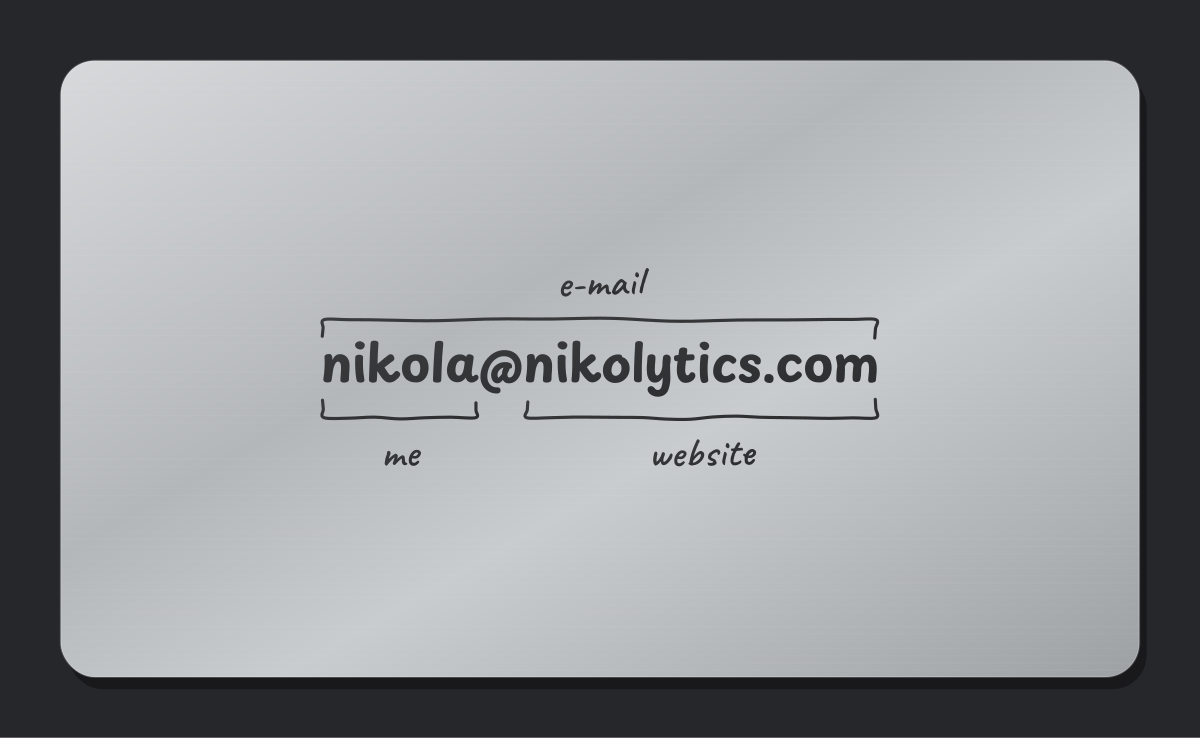
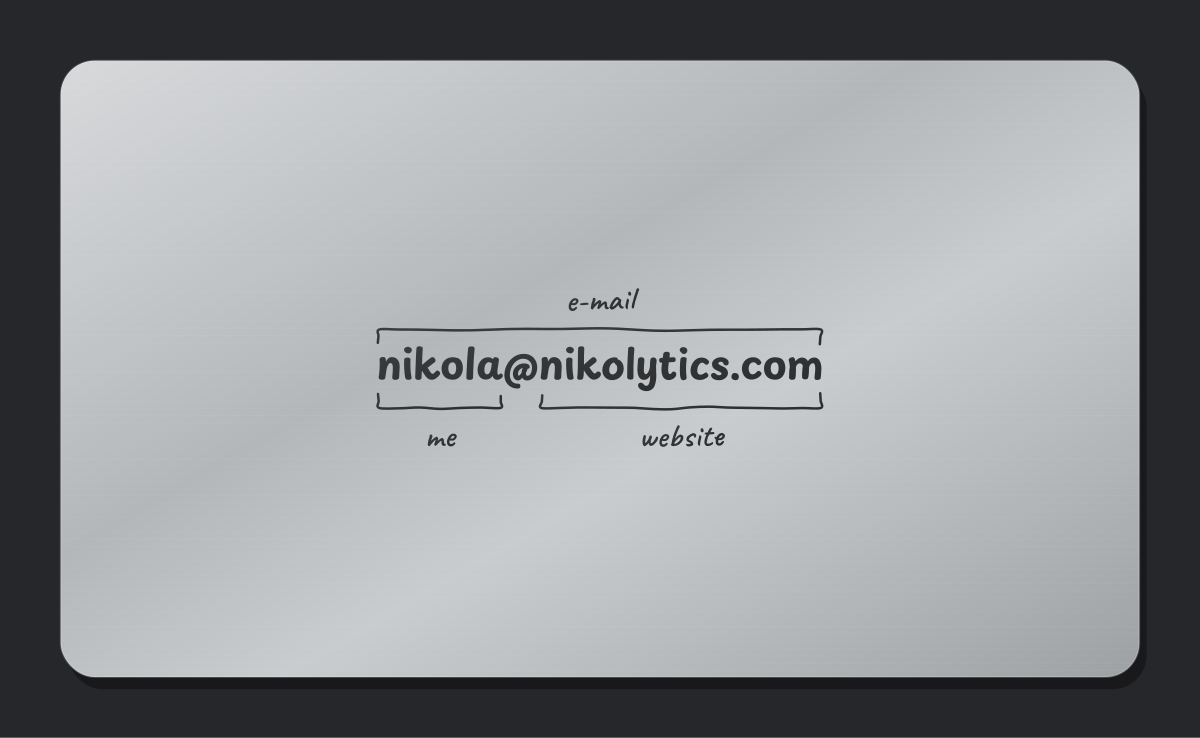
Shrink back composition a further 20% (to 57.6% scale)
Claude-Session: https://claude.ai/code/session_01NopCU4BZ4epPy7qkQeV9GA

Changed region(s): [[0.2467, 0.374, 0.74, 0.6545]]

diff --git a/design/business-card/generate_sketch.py b/design/business-card/generate_sketch.py
@@ -166,7 +166,7 @@ email_base += shift; brk_y += shift; lbl_base += shift
 top_brk_y += shift; top_base += shift
 
 STROKE = 3.6
-SCALE = 0.72  # shrink the whole composition, centred on the card
+SCALE = 0.576  # shrink the whole composition, centred on the card
 
 def place(d, tx, ty, rot=0.0):
     r = f" rotate({rot:.2f})" if rot else ""
